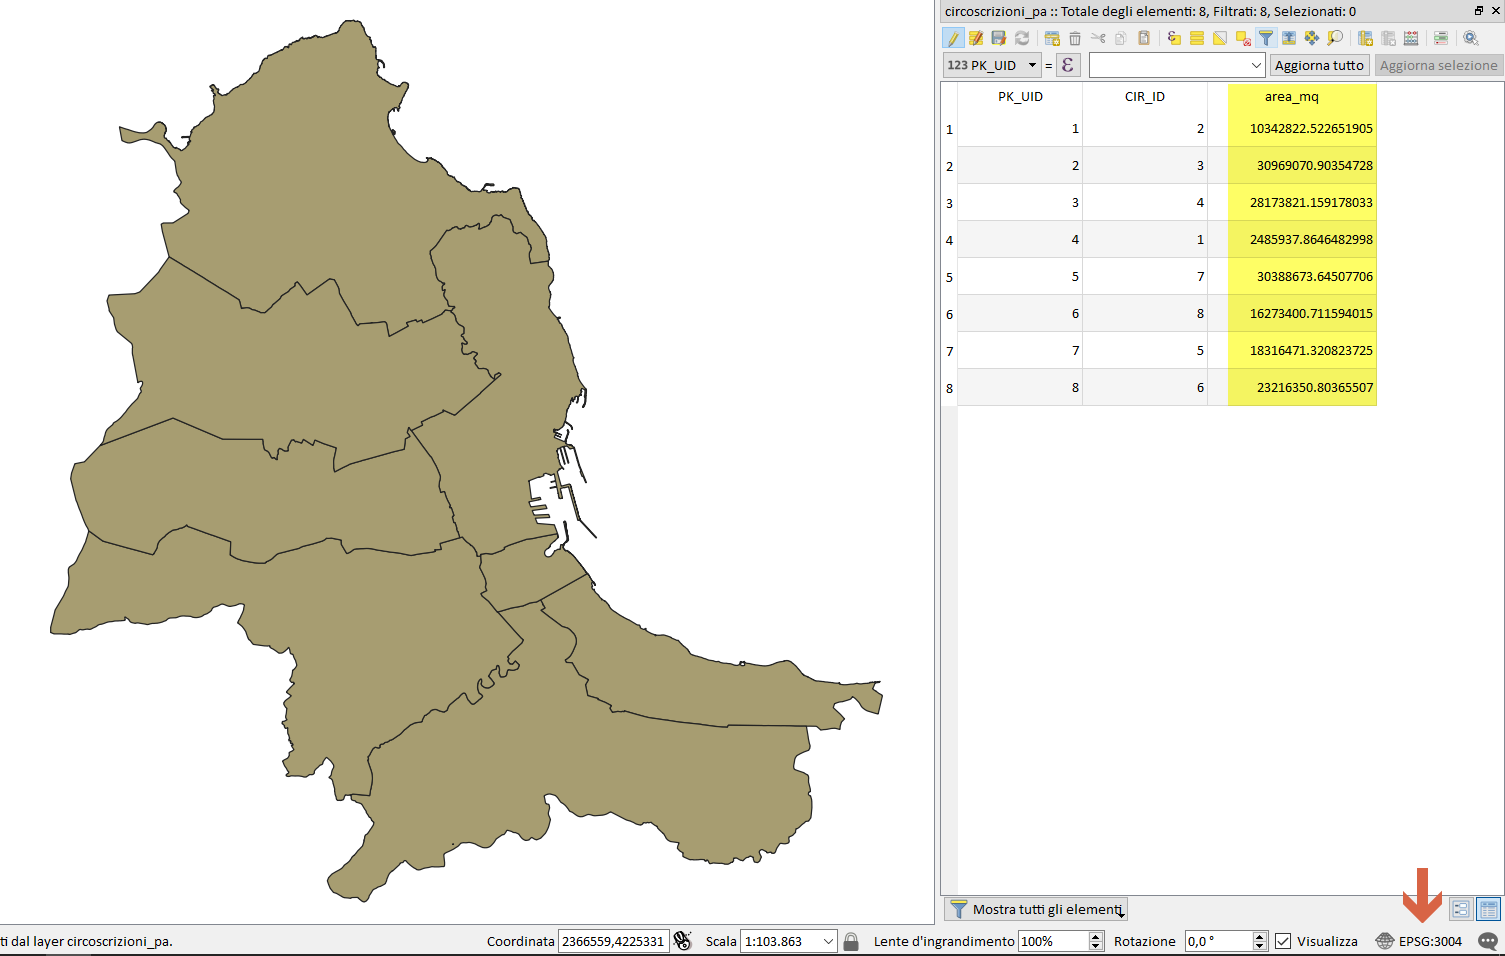
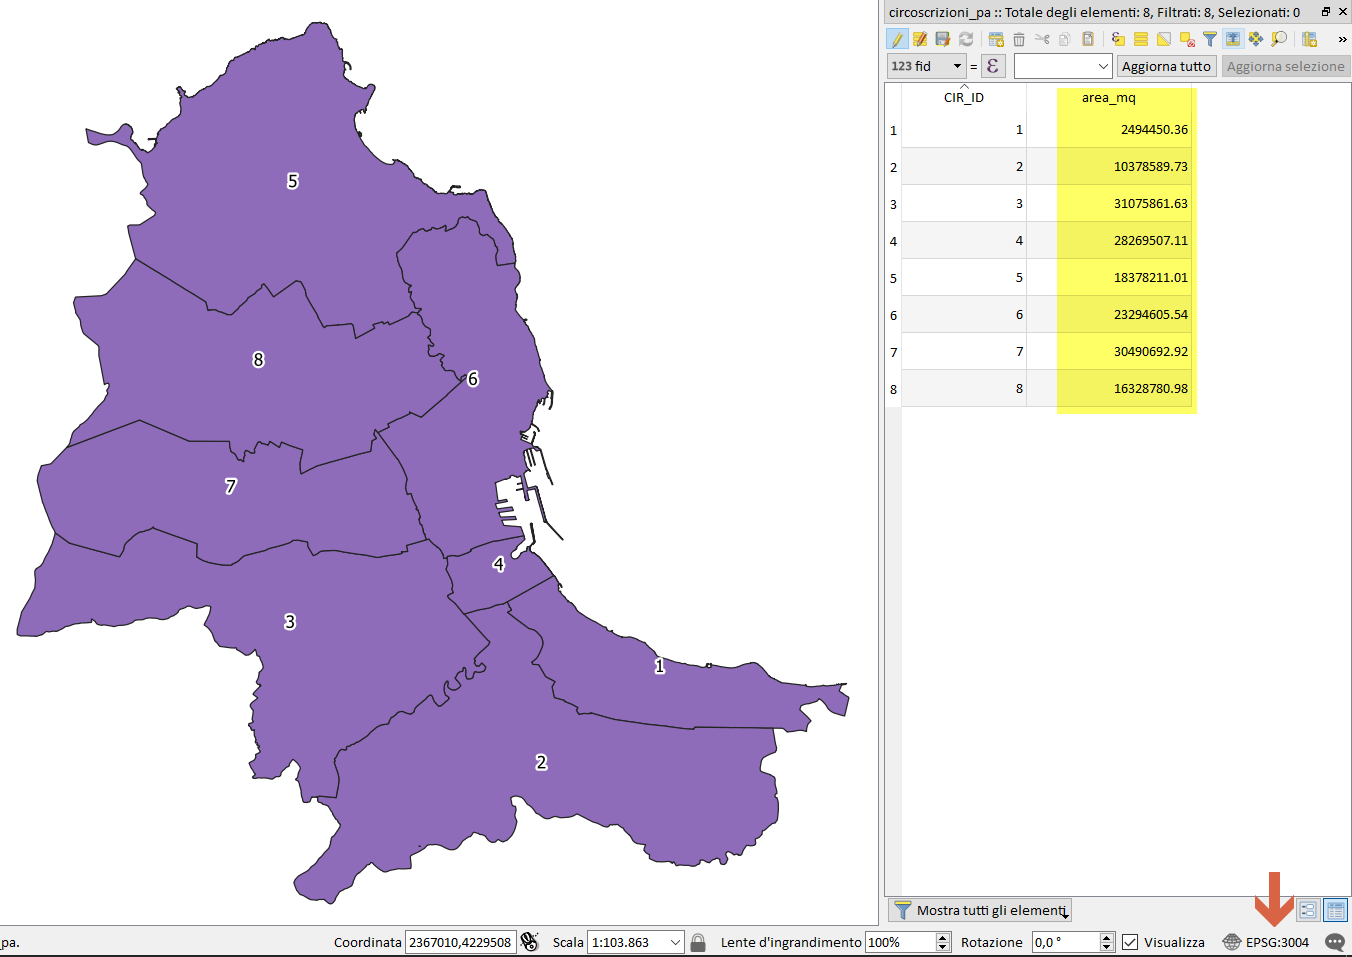
edit img

diff --git a/geometria/$area.md b/geometria/$area.md
@@ -24,13 +24,13 @@ Aggiungiamo un campo _area_mq_ e lo popoliamo con la funzione _$area_:
 5. doppio clic sulla funzione **$area** per inserirlo;
 6. clic su **OK** per eseguire.
 
-<img src="/img/geometria/area/area003.png">
+<img src="/img/geometria/area/area004.png">
 
 nell'esempio ho usato un vettore poligonale con EPSG 3004 (sistema proiettato metrico):  la superficie di ogni elemento è in metri quadrati come evidenziato nella tabella attributi
 
 ## nota bene
 
-se il SR del layer in cui si sta calcolando l'area ($area) è un sistema proiettato (es:EPSG 3003/4; 32632/33/34) allora l'unità di misura è il metro, invece se il SR fosee EPSG 4326 cioè un sistema geografico allora l'unità di misura dell'area sarebbe gradi e quindi poco comprensibile e valori piccoli.
+il SR del layer in cui si sta calcolando l'area ($area) è un sistema proiettato (es:EPSG 3003/4; 32632/33/34) quindi l'unità di misura è il metro, invece se il SR fosse stato EPSG 4326, cioè un sistema geografico, allora l'unità di misura dell'area sarebbe stata in gradi e quindi poco comprensibile e valori piccoli.
 
 ## osservazioni
 
